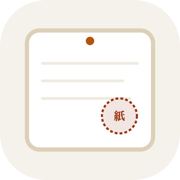
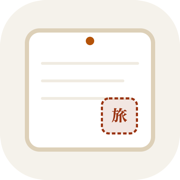
feat: complete Tabijirushi rebrand and fix map spot animation

Changed region(s): [[0.5556, 0.5278, 0.7778, 0.75]]

diff --git a/src/pages/LoginPage.tsx b/src/pages/LoginPage.tsx
@@ -12,7 +12,6 @@ export const LoginPage: React.FC = () => {
   const [errorMessage, setErrorMessage] = useState<string | null>(null);
   const [successMessage, setSuccessMessage] = useState<string | null>(null);
 
-  // メールアドレスとパスワードによるログイン・新規登録
   const handleSubmit = async (e: React.FormEvent) => {
     e.preventDefault();
     setErrorMessage(null);
@@ -32,7 +31,6 @@ export const LoginPage: React.FC = () => {
 
     try {
       if (isSignUp) {
-        // 新規登録
         const { error, data } = await supabase.auth.signUp({
           email,
           password,
@@ -42,13 +40,12 @@ export const LoginPage: React.FC = () => {
 
         if (data.user && data.session === null) {
           setSuccessMessage(
-            '確認メールを送信しました。メール内のリンクをクリックして登録を完了してください。（※メール確認をオフにしている場合はそのままログインできます）'
+            '確認メールを送信しました。メール内のリンクをクリックして登録を完了してください。'
           );
         } else {
           setSuccessMessage('登録が完了しました！');
         }
       } else {
-        // ログイン
         const { error } = await supabase.auth.signInWithPassword({
           email,
           password,
@@ -70,7 +67,6 @@ export const LoginPage: React.FC = () => {
     }
   };
 
-  // Googleログインボタンの処理
   const handleGoogleLogin = async () => {
     setErrorMessage(null);
     const { error } = await signInWithGoogle();
@@ -82,20 +78,23 @@ export const LoginPage: React.FC = () => {
   return (
     <div className="min-h-screen bg-paper-50 flex flex-col justify-center items-center px-4 py-8">
       <div className="w-full max-w-sm">
-        {/* アプリのロゴと紹介 */}
+        {/* アプリのロゴと新キャッチコピー */}
         <div className="text-center mb-8">
-          <div className="inline-flex items-center justify-center w-16 h-16 rounded-2xl bg-amber-100/80 text-amber-900 mb-3 shadow-inner">
-            <span className="text-3xl">📜</span>
+          <div className="inline-flex items-center justify-center w-16 h-16 rounded-2xl bg-amber-900 text-white mb-3 shadow-md border-2 border-white ring-2 ring-amber-900/20">
+            <span className="font-serif text-3xl font-bold">印</span>
           </div>
-          <h1 className="font-serif text-2xl font-bold text-amber-950 tracking-wider">
-            紙もの手帖
+          <h1 className="font-serif text-3xl font-bold text-amber-950 tracking-widest">
+            旅印
           </h1>
-          <p className="text-xs text-stone-600 mt-1">
-            旅先や街角で手にした紙の記念品を、いつでも掌に。
+          <p className="text-[11px] text-stone-400 font-sans tracking-widest -mt-0.5 mb-2">
+            たびじるし
+          </p>
+          <p className="text-xs text-stone-600 leading-relaxed font-sans px-2">
+            旅先で出会った紙の記憶を、あなたの日本地図に。
           </p>
         </div>
 
-        {/* Supabase設定が未完了の場合の警告カード */}
+        {/* Supabase未設定警告 */}
         {!isSupabaseConfigured && (
           <div className="mb-6 p-4 bg-amber-50 border border-amber-200 rounded-xl text-amber-900 text-xs leading-relaxed shadow-sm">
             <div className="flex items-center gap-1.5 font-bold mb-1">
@@ -110,7 +109,6 @@ export const LoginPage: React.FC = () => {
 
         {/* ログイン / 新規登録 カード */}
         <div className="bg-white/80 backdrop-blur border border-paper-200/90 rounded-2xl shadow-sm p-6">
-          {/* タブ切り替え */}
           <div className="flex border-b border-paper-200 mb-6">
             <button
               type="button"
@@ -144,7 +142,6 @@ export const LoginPage: React.FC = () => {
             </button>
           </div>
 
-          {/* エラー / 成功 メッセージ表示 */}
           {errorMessage && (
             <div className="mb-4 p-3 bg-red-50 border border-red-200 rounded-lg text-red-700 text-xs flex items-start gap-2">
               <AlertCircle className="w-4 h-4 mt-0.5 flex-shrink-0" />
@@ -159,7 +156,6 @@ export const LoginPage: React.FC = () => {
             </div>
           )}
 
-          {/* 入力フォーム */}
           <form onSubmit={handleSubmit} className="space-y-4">
             <div>
               <label className="block text-xs font-medium text-stone-700 mb-1">
@@ -210,7 +206,6 @@ export const LoginPage: React.FC = () => {
             </button>
           </form>
 
-          {/* 区切り線 */}
           <div className="relative my-5">
             <div className="absolute inset-0 flex items-center">
               <div className="w-full border-t border-paper-200" />
@@ -220,7 +215,6 @@ export const LoginPage: React.FC = () => {
             </div>
           </div>
 
-          {/* Googleログインボタン */}
           <button
             type="button"
             onClick={handleGoogleLogin}

diff --git a/src/components/Layout.tsx b/src/components/Layout.tsx
@@ -10,13 +10,20 @@ export const Layout: React.FC = () => {
   return (
     <div className="min-h-screen flex flex-col bg-paper-50 text-paper-900">
       {/* 共通ヘッダー */}
-      <header className="sticky top-0 z-20 bg-paper-100/90 backdrop-blur-md border-b border-paper-200 px-4 py-3 flex items-center justify-between shadow-sm">
+      <header className="sticky top-0 z-20 bg-paper-100/90 backdrop-blur-md border-b border-paper-200 px-4 py-3 flex items-center justify-between shadow-xs">
         <div className="flex items-center gap-2">
-          {/* 紙ものを象徴するシンプルなアイコン */}
-          <span className="text-xl">📜</span>
-          <h1 className="font-serif font-bold text-lg text-amber-950 tracking-wide">
-            紙もの手帖
-          </h1>
+          {/* 旅印を象徴する朱色の角印風アイコン */}
+          <div className="w-7 h-7 rounded-lg bg-amber-900 text-white flex items-center justify-center font-serif text-sm font-bold shadow-2xs border border-amber-950/20">
+            印
+          </div>
+          <div>
+            <h1 className="font-serif font-bold text-base text-amber-950 tracking-wider leading-none">
+              旅印
+            </h1>
+            <span className="text-[9px] text-stone-400 font-sans tracking-tight">
+              たびじるし
+            </span>
+          </div>
         </div>
 
         {/* ユーザー情報＆ログアウトボタン */}
@@ -36,7 +43,7 @@ export const Layout: React.FC = () => {
         )}
       </header>
 
-      {/* メイン画面（ボトムナビにかぶらないよう下部に余白を確保） */}
+      {/* メイン画面（下部ナビにかぶらないよう余白を確保） */}
       <main className="flex-1 pb-24">
         <div className="max-w-md mx-auto px-4 py-4">
           <Outlet />

diff --git a/index.html b/index.html
@@ -3,17 +3,18 @@
   <head>
     <meta charset="UTF-8" />
     <meta name="viewport" content="width=device-width, initial-scale=1.0, maximum-scale=1.0, user-scalable=no, viewport-fit=cover" />
-    <title>紙もの手帖</title>
+    <title>旅印（たびじるし） - 紙の記念品と日本地図</title>
+    <meta name="description" content="旅先で出会った紙の記憶を、あなたの日本地図に。スタンプ、半券、チケットをデジタルに保存するコレクションアプリ。" />
 
     <!-- PWA & モバイル向けメタタグ -->
     <meta name="theme-color" content="#fbfaf7" />
     <meta name="apple-mobile-web-app-capable" content="yes" />
     <meta name="apple-mobile-web-app-status-bar-style" content="default" />
-    <meta name="apple-mobile-web-app-title" content="紙もの手帖" />
+    <meta name="apple-mobile-web-app-title" content="旅印" />
     <link rel="apple-touch-icon" href="/apple-touch-icon.png" />
     <link rel="icon" type="image/svg+xml" href="/pwa-icon.svg" />
 
-    <!-- Leafletの地図スタイル -->
+    <!-- Leafletの地図スタイル（場所手動指定ピッカー用） -->
     <link rel="stylesheet" href="https://unpkg.com/leaflet@1.9.4/dist/leaflet.css" />
   </head>
   <body class="bg-paper-50 text-paper-900 min-h-screen antialiased selection:bg-paper-200">

diff --git a/vite.config.ts b/vite.config.ts
@@ -10,9 +10,9 @@ export default defineConfig({
       registerType: 'autoUpdate',
       includeAssets: ['pwa-icon.svg', 'apple-touch-icon.png', 'pwa-192x192.png', 'pwa-512x512.png'],
       manifest: {
-        name: '紙もの手帖 - 紙の記念品コレクション',
-        short_name: '紙もの手帖',
-        description: '旅先や街角で手に入れたスタンプ、チケット、手紙をデジタルに保存するアプリ',
+        name: '旅印（たびじるし） - 紙の記念品と日本地図',
+        short_name: '旅印',
+        description: '旅先で出会った紙の記憶を、あなたの日本地図に。スタンプ、半券、チケットを保存するアプリ',
         theme_color: '#fbfaf7',
         background_color: '#fbfaf7',
         display: 'standalone',
@@ -37,8 +37,7 @@ export default defineConfig({
         ],
       },
       workbox: {
-        // キャッシュ設定（オフラインでも基本UIを表示）
-        globPatterns: ['**/*.{js,css,html,ico,png,svg}'],
+        globPatterns: ['**/*.{js,css,html,ico,png,svg,json}'],
       },
     }),
   ],

diff --git a/README.md b/README.md
@@ -1,1 +1,50 @@
-# paper-collection
+# 旅印（たびじるし）
+
+**旅先で出会った紙の記憶を、あなたの日本地図に。**
+
+スタンプ、御朱印、入場券・半券など「旅先や街角で受け取る紙の記念品」を写真に撮り、デジタルで保存して日本地図やアルバムでいつでも振り返ることができるWebアプリケーション（PWA対応）です。
+
+---
+
+## 主な機能
+
+1. **旅のアルバム（コレクション一覧）**
+   - 新しい順でグリッド表示
+   - 種類フィルター（スタンプ／半券・チケット／その他）
+   - 写真の拡大表示、編集、安全な削除
+   - スマホを傾けると紙が立体的になり光が反射する質感演出（`TiltCard`）
+2. **手動トリミング & 自動最適化**
+   - 自由比率、1:1、3:4、4:3、16:9 の切り抜き枠をドラッグ操作で調整（`react-image-crop`）
+   - 90度回転ボタン
+   - ブラウザ側での自動画像圧縮（`browser-image-compression`）によるクラウド容量節約
+3. **撮影情報（EXIF）からの自動入力**
+   - 写真のEXIF情報（`DateTimeOriginal`）から訪問日を自動判定（`exifr`）
+   - GPS情報がある場合は撮影場所を自動入力
+   - 位置情報がなければ現在地（Geolocation API）または地図手動ピッカーで指定
+4. **日本の白地図 & 47都道府県制覇マップ**
+   - 訪問済みの都道府県が美しい深緑に染まるSVG白地図（`d3-geo`）
+   - 「スタンプの旅」と「半券・チケットの旅」をタブで切り替え
+   - 沖縄県のインセット枠表示
+   - 都道府県をタップすると拡大地図が開き、訪れた正確なスポットをピンポイントで描画（スタンプ＝赤、半券＝青）
+   - 東京都は23区・多摩の本土を大きく表示し、右上の「諸島を見る」で伊豆・小笠原諸島を切り替え可能
+5. **モバイルファースト & PWA対応**
+   - スマホのホーム画面に追加してネイティブアプリ感覚で全画面起動可能
+
+---
+
+## 地図データの出典とライセンス
+
+- **都道府県境界データ (`src/data/japan-prefectures.json`)**:
+  - 出典：国土交通省 国土数値情報（行政区域データ）をベースに加工・簡素化
+  - データ提供：[dataofjapan/land](https://github.com/dataofjapan/land)
+  - ライセンス：パブリックドメイン / MIT License / 政府標準利用規約に準拠（商用利用・再配布許諾済み）
+
+---
+
+## 技術スタック
+
+- **フロントエンド**: React 18, Vite, TypeScript, Tailwind CSS, Lucide React
+- **地図・可視化**: d3-geo (白地図), Leaflet / OpenStreetMap (位置指定ピッカー)
+- **バックエンド / DB**: Supabase (Postgres, Auth, Storage) ※完全無料枠
+- **画像処理**: react-image-crop, browser-image-compression, exifr
+- **PWA**: vite-plugin-pwa, Workbox
